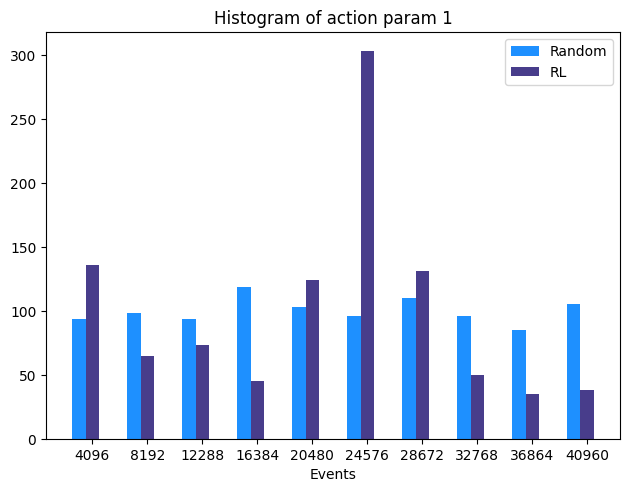
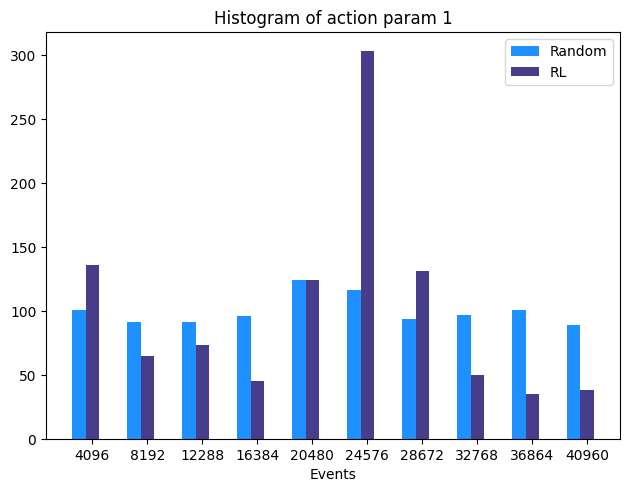
added rl vs random rle_compressor

diff --git a/RLE_compressor/tb_with_rl/RLE_compressor_multistate_modularized/merge_plot.py b/RLE_compressor/tb_with_rl/RLE_compressor_multistate_modularized/merge_plot.py
@@ -136,8 +136,9 @@ for line in file:
         plt.close()
         break
 
-action_data_1 = 0
 action_data_2 = 0
+action_data_3 = 0
+action_cont = 0
 
 file.seek(0)
 for line in file:
@@ -157,6 +158,7 @@ for line in file:
             plt.title('Histogram of action param ' + str(i))
             plt.savefig('./hist_of_actions' + '_param=' + str(i) + suffix + '.png', bbox_inches='tight')
             plt.close()
+            action_cont = data
         else:
             # discrete action
             labels = ast.literal_eval(components[5])
@@ -167,10 +169,10 @@ for line in file:
             plt.title('Histogram of action param ' + str(i))
             plt.savefig('./hist_of_actions' + '_param=' + str(i) + suffix + '.png', bbox_inches='tight')
             plt.close()
-        if(i == "1"):
-            action_data_1 = data
-        else:
-            action_data_2 = data
+            if(i == "2"):
+                action_data_2 = data
+            elif(i == "3"):
+                action_data_3 = data
 
 file_1.seek(0)
 for line in file_1:
@@ -201,20 +203,22 @@ for line in file_1:
             plt.savefig('./hist_of_actions' + '_param=' + str(i) + suffix_1 + '.png', bbox_inches='tight')
             plt.close()
 
-        x = np.array(labels_1)
-        width = 1000
-        if(i == "1"):
-            data = action_data_1
-        else:
-            data = action_data_2
-        hist_data = np.histogram(data,bins=10)
-        hist_data_1 = np.histogram(data_1,bins=10)
-        plt.bar(x-1000, hist_data[0], width, color='dodgerblue')
-        plt.bar(x, hist_data_1[0], width, color='darkslateblue')
-        plt.xticks(labels_1)
-        plt.xlabel("Events")
-        plt.legend(["Random", "RL"])
-        plt.tight_layout()
-        plt.title('Histogram of action param ' + str(i))
-        plt.savefig('./merge_hist_of_actions_' + str(i) + '.png', bbox_inches='tight')
-        plt.close()
+            x = np.array(labels_1)
+            width = 0
+            if(i == "2"):
+                data = action_data_2
+                width = 0.3
+            elif(i == "3"):
+                data = action_data_3
+                width = 30
+            hist_data = np.histogram(data,bins=len(labels_1))
+            hist_data_1 = np.histogram(data_1,bins=len(labels_1))
+            plt.bar(x-width, hist_data[0], width, color='dodgerblue')
+            plt.bar(x, hist_data_1[0], width, color='darkslateblue')
+            plt.xticks(labels_1)
+            plt.xlabel("Events")
+            plt.legend(["Random", "RL"])
+            plt.tight_layout()
+            plt.title('Histogram of action param ' + str(i))
+            plt.savefig('./merge_hist_of_actions_' + str(i) + '.png', bbox_inches='tight')
+            plt.close()
